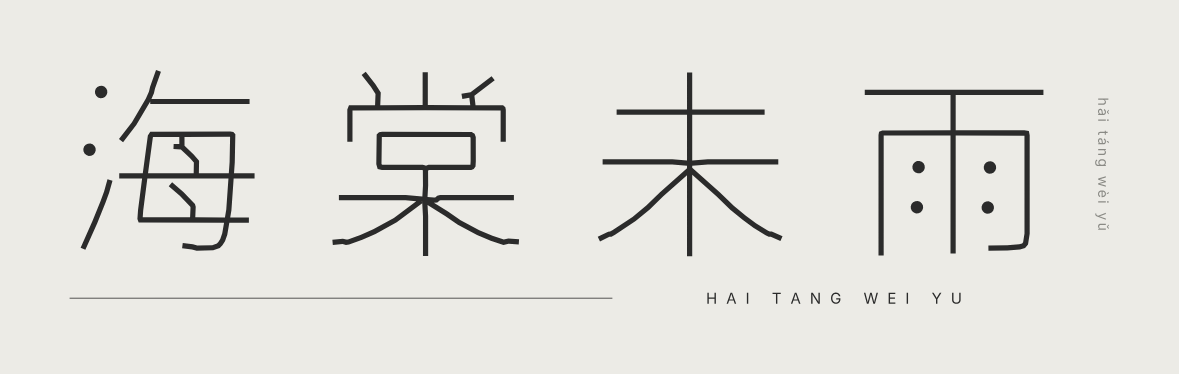
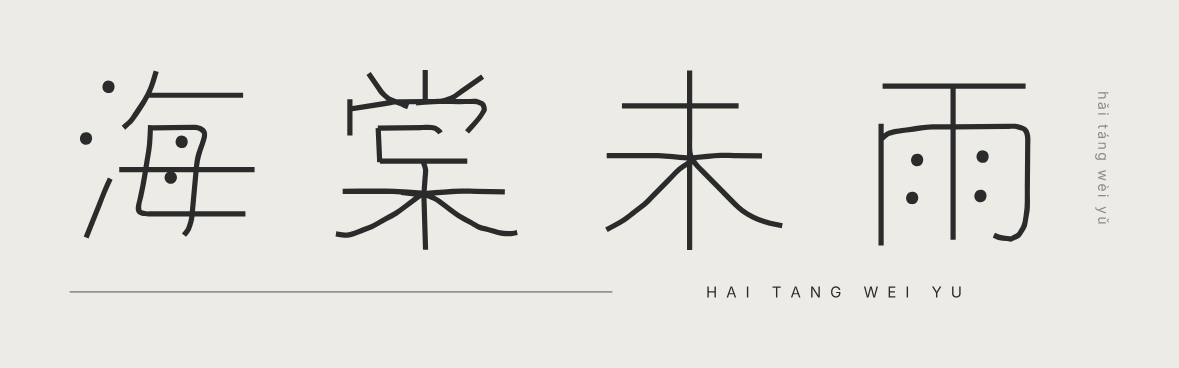
lab: skeleton-and-brush recipes, source comparison, README

diff --git a/lab/README.md b/lab/README.md
@@ -1,6 +1,8 @@
 # 文字变形实验
 
-从任意字体取出轮廓，自动分析出每一笔的末端和骨架，再按一份 JSON 配方逐步改造字形：拉长卷起末端、改末端形状、用单线笔或扁笔尖重描、把点换成圆、倒圆角、切开、几何化、加内刻线，最后排版加装饰，输出 PNG、SVG 和 flexlayer 的 `.layer`。不需要逐笔数据。
+从任意字体取出轮廓，自动分析出每一笔的末端和骨架，再按一份 JSON 配方逐步改造字形：拉长卷起末端、改末端形状、用单线笔或扁笔尖重描、把点换成圆、倒圆角、切开、几何化、加内刻线，最后排版加装饰，输出 PNG、SVG 和 flexlayer 的 `.layer`。
+
+另一条路是先把字变成「骨架字形」：按笔顺排好的一组中心线，每笔带类型、逐点宽度和两端是自由还是接在别的笔上。骨架上可以单独转动、拉长、卷起、抖动、连笔，最后用一支可调压力、可出锋的笔画回轮廓。很多字体设计其实就是「骨架变形 + 笔刷」。
 
 ![总览](examples/gallery.png)
 
@@ -15,10 +17,10 @@
 3. **分析**，两套互相补充：
    - **末端**：沿轮廓找约 180° 的凸转弯，要求两侧边近似平行，开口宽度和 `computeMedial` 量出的笔画宽度对得上。逐笔重叠的字体先按外轮廓分组再量，藏在别的笔画里的末端会被去掉。
    - **骨架**：把字栅格化，做距离变换和细化，得到中心线图。图里有端点、交叉点和边；在交叉点把走势最顺的两条边接成一笔，再按长度、角度、转折分成横、竖、撇、捺、点、提、折。独立的小块记为「点」。
-4. **逐字操作**：配方里的 `steps` 依次作用在每个字上。末端类操作改轮廓的局部，骨架类操作按中心线重新生成轮廓，形状类操作用 [Clipper](http://www.angusj.com/delphi/clipper.php) 做布尔运算和偏移。
+4. **逐字操作**：配方里的 `steps` 依次作用在每个字上。末端类操作改轮廓的局部，骨架类操作按中心线重新生成轮廓，形状类操作用 [Clipper](http://www.angusj.com/delphi/clipper.php) 做布尔运算和偏移。骨架字形的操作见下文[骨架字形](#骨架字形)。
 5. **排版**：按配方分行、错位、倾斜。
-6. **整段操作**：`post` 里的操作作用在排好的整段文字上，比如一刀切过所有字。
-7. **装饰和输出**：加星星、环线、拼音、线条，交给 flexlayer 渲染。
+6. **整段操作**：`post` 里的操作作用在排好的整段文字上，比如一刀切过所有字，或者把字和字连笔。
+7. **装饰和输出**：加星星、环线、拼音、线条，交给 flexlayer 渲染。轮廓先拟合成三次贝塞尔曲线（误差约 0.0012 em）再写进 SVG 和 `.layer`，配方里写 `"curves": false` 则保留折线。
 
 ## 用法
 
@@ -30,15 +32,18 @@ npm run lab:analyze -- lab/recipes/遥不可及的爱.json
 npm run lab:render -- lab/recipes/遥不可及的爱.json
 # 3. 全部配方拼一张总览
 npm run lab:gallery
+# 4. 比较三种骨架来源（文字、字体、字重、输出路径）
+npx tsx lab/deform/compare.ts 海棠未雨母可 NotoSans 400
 ```
 
 结果在 `lab/out/`。也可以直接分析一段文字：`npm run lab:analyze -- 春风十里 ChillDuanSans 300 800`（文字、字体、字重、合成字重）。`lab:render` 的第三个参数是缩放，默认 0.5。
 
-分析会输出三份文件：
+分析会输出四份文件：
 
 - `.terminals.png`：末端编号。粉色的末端前方开阔，适合夸张；蓝色的末端很快会撞到本字其它笔画。
-- `.skeleton.png`：骨架。颜色是笔画类型，标签是「类型+编号」，白点是交叉点，虚线圈是识别出的点。
-- `.analysis.json`：给模型读的清单，`terminals` 和 `strokes` 两部分。
+- `.skeleton.png`：从轮廓自动细化出的骨架。颜色是笔画类型，标签是「类型+编号」，白点是交叉点，虚线圈是识别出的点。
+- `.strokes.png`：骨架字形。颜色是笔画类型，数字是笔顺，箭头是书写方向，空心圈表示这一端接在别的笔画上，右上角是骨架来源。
+- `.analysis.json`：给模型读的清单，`terminals`（末端）、`skeleton`（自动骨架）、`strokes`（骨架字形）三部分。
 
 ![末端编号](examples/遥不可及的爱.terminals.png)
 
@@ -55,7 +60,9 @@ npm run lab:gallery
 | `run` | 末端后面笔画保持顺直的长度（em），越长越像一笔长画 |
 | `free` | 顺着末端方向到本字其它墨迹的距离（em），`null` 表示一路开阔 |
 
-笔画清单里每一笔有 `id`（如 `雨.s3`）、`type`、`length`、`angle`，以及起止点 `from`、`to`；`dots` 是识别出的点的位置。
+自动骨架清单里每一笔有 `id`（如 `雨.s3`）、`type`、`length`、`angle`，以及起止点 `from`、`to`；`dots` 是识别出的点的位置。
+
+骨架字形清单里每一笔有 `id`（如 `雨.3`，数字就是笔顺）、`type`、`length`、`width`、起止点 `from`、`to`，以及两端 `start`、`end`：`free` 是自由端，`joint:2` 是接在第 2 笔上。
 
 前面的操作会改变轮廓，末端编号也跟着变。分析配方时会先执行到第一个按编号点名末端的步骤之前，清单里的编号就是那一步看到的编号，清单的 `stoppedBefore` 记着停在哪一步。
 
@@ -79,6 +86,7 @@ npm run lab:gallery
 | `attrs` | 原样写到字形上的 flexlayer 效果，如 `{ "inner-shadow": "0 -10 14 #0006", "shadow": "0 14 0 #b23a1f" }` |
 | `decor` | 装饰，见下文。坐标以第一行字身左上角为原点 |
 | `padding` | 画面四周留白 |
+| `curves` | 默认 `true`，输出前把轮廓拟合成贝塞尔曲线 |
 
 ### 操作
 
@@ -97,6 +105,9 @@ npm run lab:gallery
 | `inline` | `width`、`inset` | 在笔画里离边 `inset` 处刻一道宽 `width` 的线 |
 | `slice` | `angle`、`gap`、`at`（0–1，可以是数组）、`shift` | 用直线切开；`shift` 让切线一侧沿切线错开 |
 | `geometrize` | `tolerance`、`snap` | 简化轮廓，再把每条边吸附到 `snap` 度的整数倍 |
+| `warp` | `kind`: `arc`、`wave`；`amount`；`period`（波长） | 整体弯成拱形或波浪，放在 `post` 里弯整段文字。作用在骨架字形上时只移动中心线，笔宽不变 |
+
+另有一组操作作用在骨架字形上，见[骨架字形](#骨架字形)。
 
 `restroke` 的参数：
 
@@ -155,13 +166,84 @@ npm run lab:gallery
 
 拼音带声调时用 `Inter` 字体，NotoSans 里没有这些字母。NotoSans 的字身高约 1.45 em，墨迹大致在 y 0.32–1.23 em 之间，摆装饰时可以参考。
 
+## 骨架字形
+
+骨架字形是一组按笔顺排好的笔画，每笔有：
+
+| 字段 | 含义 |
+| --- | --- |
+| `type` | 横、竖、撇、捺、点、提、折 |
+| `pts` | 按书写方向的中心线，约每 0.008 em 一个点 |
+| `width` | 每个点的笔宽，取自字体本身 |
+| `start`、`end` | `free` 自由端，或 `joint` 接在哪一笔上 |
+
+### 三种来源
+
+`{ "op": "skeleton", "source": "hybrid" }` 选来源，默认 `hybrid`。没写 `skeleton` 时，第一个骨架操作也会按默认来源自动转换。
+
+| `source` | 做法 | 长处和短处 |
+| --- | --- | --- |
+| `auto` | 从轮廓细化出的骨架，在交叉点把走势最顺的边接成一笔 | 不需要外部数据，任何字形都能用；笔顺是按位置猜的，粘连的笔画会被拆错或并错 |
+| `hanzi` | [Make Me a Hanzi](https://github.com/skishore/makemeahanzi) 的逐笔中心线，按包围盒对齐到字体 | 笔顺、拆笔都对；但它是楷体结构，和黑体等字体的位置、角度对不上 |
+| `hybrid` | 拿 `hanzi` 的每一笔，逐点吸附到 `auto` 骨架上方向相近的位置，再平滑；宽度从字体量，自由端延伸到墨迹边缘，接头延伸到被接的那一笔 | 笔顺和结构来自 `hanzi`，形状来自字体。吸附不上的字会退回整体平移 |
+
+字库里查不到的字（如标点、生僻字）自动退回 `auto`。逐笔数据经 [hanzi-writer-data](https://github.com/chanind/hanzi-writer-data) 从 jsDelivr 下载，缓存在 `~/.cache/anyfontweight-lab/hanzi/`，许可是 Arphic Public License。
+
+下图从上到下是 `auto`、`hanzi`、`hybrid`。`auto` 把「未」的笔顺排错，把「母」的几笔并成了一笔；`hanzi` 结构对但偏离字形；`hybrid` 两者兼顾。
+
+![三种骨架来源](examples/海棠未雨母可.compare.png)
+
+### 骨架操作
+
+| `op` | 参数 | 作用 |
+| --- | --- | --- |
+| `skeleton` | `source` | 转成骨架字形 |
+| `transform` | `rotate`、`scale`、`scaleX`、`scaleY`、`dx`、`dy`、`origin`（`center`、`start`、`end`） | 每笔绕自己的中心、起点或终点旋转缩放平移 |
+| `extend` | `start`、`end`（负数是剪短）、`bend`、`curl`、`curlRadius`、`curlTighten`、`taper` | 两端拉长、拐弯、卷起，参数同飘带 |
+| `snap` | `angle`、`tolerance`（默认 0.01） | 简化后把线段方向吸附到 `angle` 的整数倍 |
+| `smooth` | `amount` | 中心线高斯平滑 |
+| `jitter` | `amount`、`wavelength`（默认 0.2）、`seed` | 低频抖动，像手写 |
+| `connect` | `maxGap`（0.45）、`tension`（0.35）、`width`（0.3）、`minDot`（-0.75）、`across` | 连笔，见下文 |
+| `brush` | 见下表 | 画回轮廓 |
+
+`transform`、`extend`、`snap`、`smooth`、`jitter` 可以加 `select` 只改部分笔画：
+
+| 字段 | 含义 |
+| --- | --- |
+| `ids` | 笔顺号，从 1 起 |
+| `types` | 笔画类型列表，如 `["捺", "撇"]` |
+| `nth` | 第几笔，负数从末尾数，如 `[1, -1]` 是首笔和末笔 |
+| `region` | 笔画中点落在字身盒子里的范围 `[x0, y0, x1, y1]` |
+| `links` | 是否包括连笔生成的牵丝，默认不包括 |
+
+`connect` 按笔顺把上一笔的收笔和下一笔的起笔用一段三次曲线接起来，像行书的牵丝。两点距离超过 `maxGap` 的不连；收笔或起笔方向和连线方向夹角太大（余弦小于 `minDot`）的也不连，否则会绕大圈。方向越背离，曲线收得越紧。`width` 是牵丝相对笔宽的比例。写在 `post` 里加上 `across`，就改成把每个字的末笔接到下一个字的首笔，做一笔写完的霓虹字。
+
+`brush` 的参数：
+
+| 参数 | 默认 | 含义 |
+| --- | --- | --- |
+| `width` | `source` | 笔宽（em）；`source` 用字体量出的逐点笔宽 |
+| `scale` | 1 | `source` 宽度的倍数 |
+| `widthByType` | | 各类笔画单独的笔宽 |
+| `pen`、`nibAngle`、`nibThin` | `round` | 同 `restroke`，`nib` 是扁笔尖 |
+| `cap`、`join` | `round` | 笔头和拐角，`cap` 可以是 `butt`、`square` |
+| `pressure` | | 沿每一笔均匀分布的宽度倍数，如 `[0.7, 1.15, 0.95, 0.5]` 是起笔轻、中段重、收笔轻 |
+| `taper` | | `[起笔, 收笔]` 各用多长（em）收成尖，出锋 |
+| `fit` | `true` | 自由端回缩半个笔宽，圆头不超出原来的长度 |
+| `dots` | | `{ shape, size 或 scale, angle, all }`，短的点画换成图形；默认只换两端都自由的点，`all` 时接在别的笔上的点也换 |
+
+`steps` 里有骨架操作而 `post` 里也有时，骨架字形会跟着排版一起带进 `post`，可以在整段上连笔再统一下笔。`steps` 结束还没 `brush` 的话，按字体原来的笔宽画回去。
+
 ## 风格配方
 
 | 配方 | 做法 |
 | --- | --- |
 | 遥不可及的爱、春风十里 | 选几个开阔的末端长出飘带卷起，加横竖对比和倾斜 |
-| 高级动物-细 | 单线圆头重描 |
-| 海棠未雨 | 单线方头重描，点换成圆，宽字距，英文副标题和竖排拼音 |
+| 高级动物-细 | 骨架字形平滑后，单线圆头笔画回 |
+| 海棠未雨 | 骨架字形，单线方头笔，点换成圆，宽字距，英文副标题和竖排拼音 |
+| 山海不可平 | 骨架字形抖动、连笔，压力笔起轻收轻、两端出锋，像毛笔 |
+| 放肆青欢 | 横画统一斜 7°，捺拉长卷起，圆头粗笔，整段弯成拱形 |
+| 举头三尺 | 骨架字形平滑，排版后字与字首尾连笔，细圆头笔加发光，像一笔写完的霓虹灯 |
 | 高级动物-粗 | 外扩加粗，向下的开阔末端斜切，倾斜 |
 | 超能力 | 外扩加粗，排版后整段斜切一刀并错开，渐变加发光 |
 | 月光倾城 | 扁笔尖重描，出书写感的粗细变化 |
@@ -175,21 +257,28 @@ npm run lab:gallery
 
 ![月光倾城](examples/月光倾城.png)
 
+![山海不可平](examples/山海不可平.png)
+
+![放肆青欢](examples/放肆青欢.png)
+
 ## 让模型来做
 
 模型不用读写路径坐标，只做三件事：
 
-1. 看分析图和 `.analysis.json`，决定改哪里。末端类效果挑 `free` 为 `null`、`run` 较长、朝向画面空白处的末端，每行一两处就够；批量效果用 `select` 按朝向、区域筛。骨架类效果看 `strokes` 的类型和点的位置。
+1. 看分析图和 `.analysis.json`，决定改哪里。末端类效果挑 `free` 为 `null`、`run` 较长、朝向画面空白处的末端，每行一两处就够；批量效果用 `select` 按朝向、区域筛。骨架字形的操作看 `.strokes.png` 和清单里的 `strokes`，按笔顺号、类型或首末笔挑笔画。
 2. 写 `steps`、`post` 和排版参数。
 3. 看渲染出的 PNG，调参数再渲染。
 
 ## 已知限制
 
 - 黑体类字体效果最好。宋体、楷体的衬线和尖头末端检出率低。
-- 骨架在笔画交叉很密的字上（如「母」里的两点）会接出短斜线；挨得很近的两个交叉点会被并成一个。
-- 只有独立成块的点会被 `dots` 换掉，粘在别的笔画上的点不会。
+- 自动骨架在笔画交叉很密的字上（如「母」里的两点）会接出短斜线；挨得很近的两个交叉点会被并成一个。`hybrid` 骨架字形没有这个问题。
+- `dots` 操作只换独立成块的点；骨架字形的 `brush` 加 `dots.all` 才能换掉粘在别的笔画上的点。
+- `hybrid` 依赖楷体结构和字体大体相近。字体结构差得多（如美术字、极扁的字）时部分笔画吸附不上，只做整体平移，可能偏离墨迹；这时改用 `auto`。
+- 骨架字形里的点画、钩是按中心线画的，笔画回去会丢掉字体原有的衬线、顿笔和钩的尖角。
+- `connect` 只看笔顺相邻的两笔，不判断牵丝会不会穿过别的笔画。
 - `synthWeight` 合成到很粗时，笔画重叠处会出小尖刺，`offset` 更干净。
 - `round` 的凹角半径和 `offset` 都会让窄字腔变窄甚至填死。
 - 延长段只和原字形取并集，不会自动避让别的字，撞上了要改 `bend` 或 `length`。
 - `contrast` 偏移量太大时字腔会变形，大约 0.015 em 以内比较稳。
-- 输出是折线，没有拟合回贝塞尔曲线。
+- 贝塞尔拟合按 40° 以上的转角断开，圆滑的部分合并成曲线；锯齿很多的轮廓（如抖动过的）节点不会少多少。
